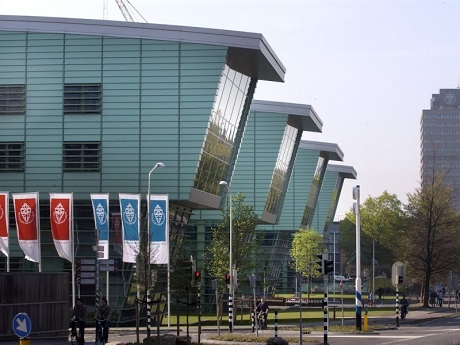
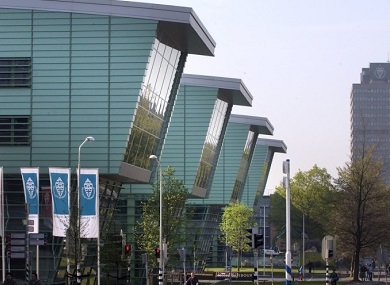
Thumbnail fix

diff --git a/index.html b/index.html
@@ -56,7 +56,7 @@
 								</ul>
 							</article>
 							<article class="6u 12u$(xsmall) work-item">
-								<a href="images/fulls/ru.jpg" class="image fit thumb"><img src="images/fulls/ru.jpg" alt="" /></a>
+								<a href="images/fulls/ru.jpg" class="image fit thumb"><img src="images/thumbs/ru.jpg" alt="" /></a>
 								<h3>Radboud University &copy;gelderlander </h3>
 							</article>
 						</div>
